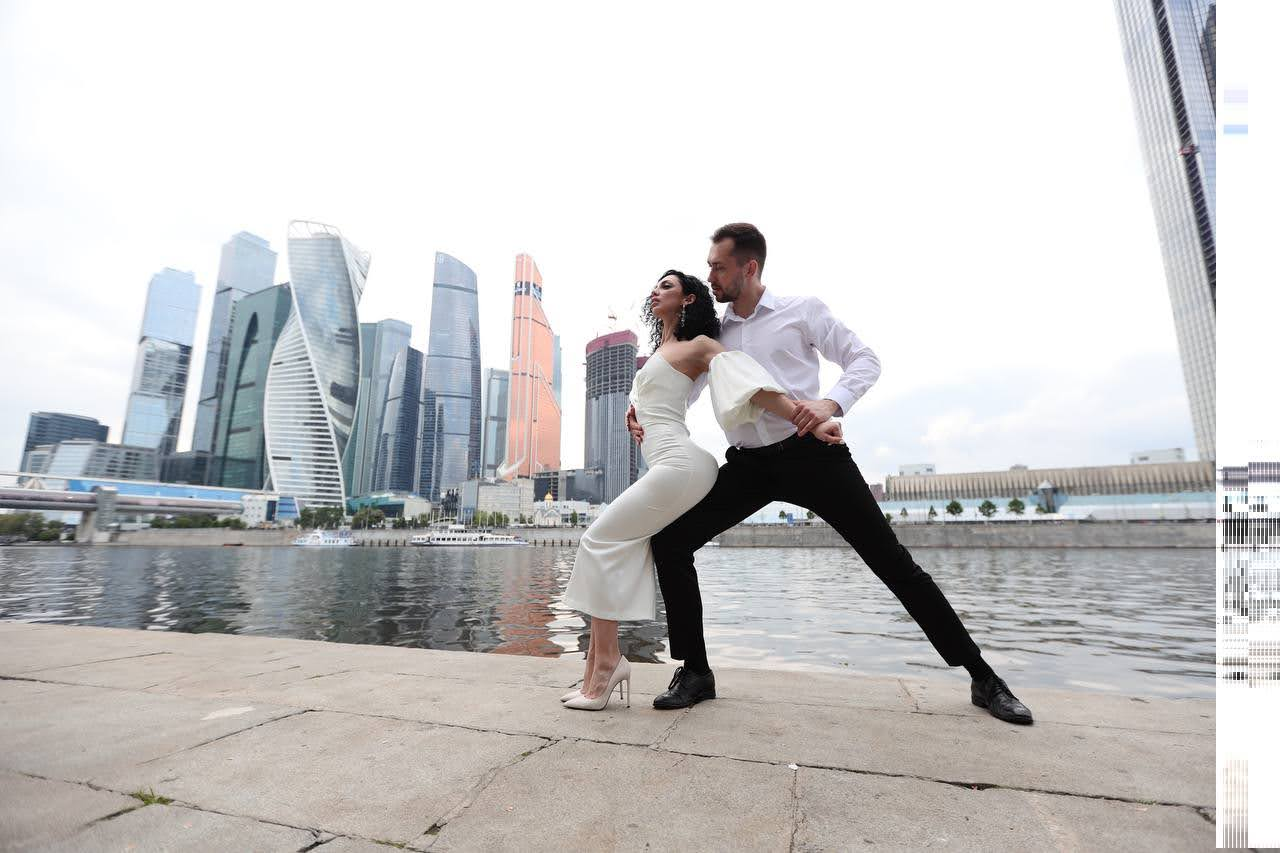
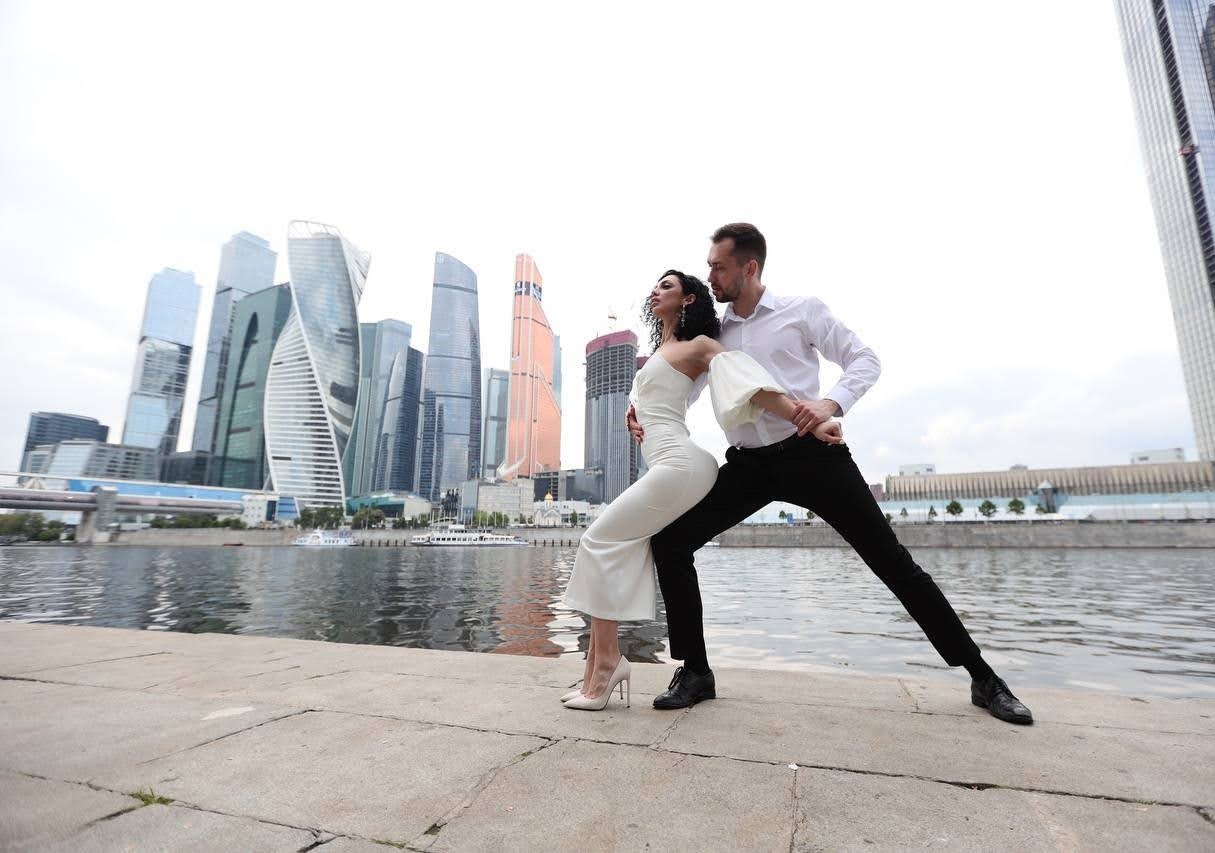
updated

diff --git a/DimaAndEva/css/style.css b/DimaAndEva/css/style.css
@@ -13,7 +13,7 @@
   margin-right: auto;
   width: 70%;
   height: 90vh;
-  object-fit: cover;
+  object-fit: contain;
 }
 .slider__button {
   width: 50px;
